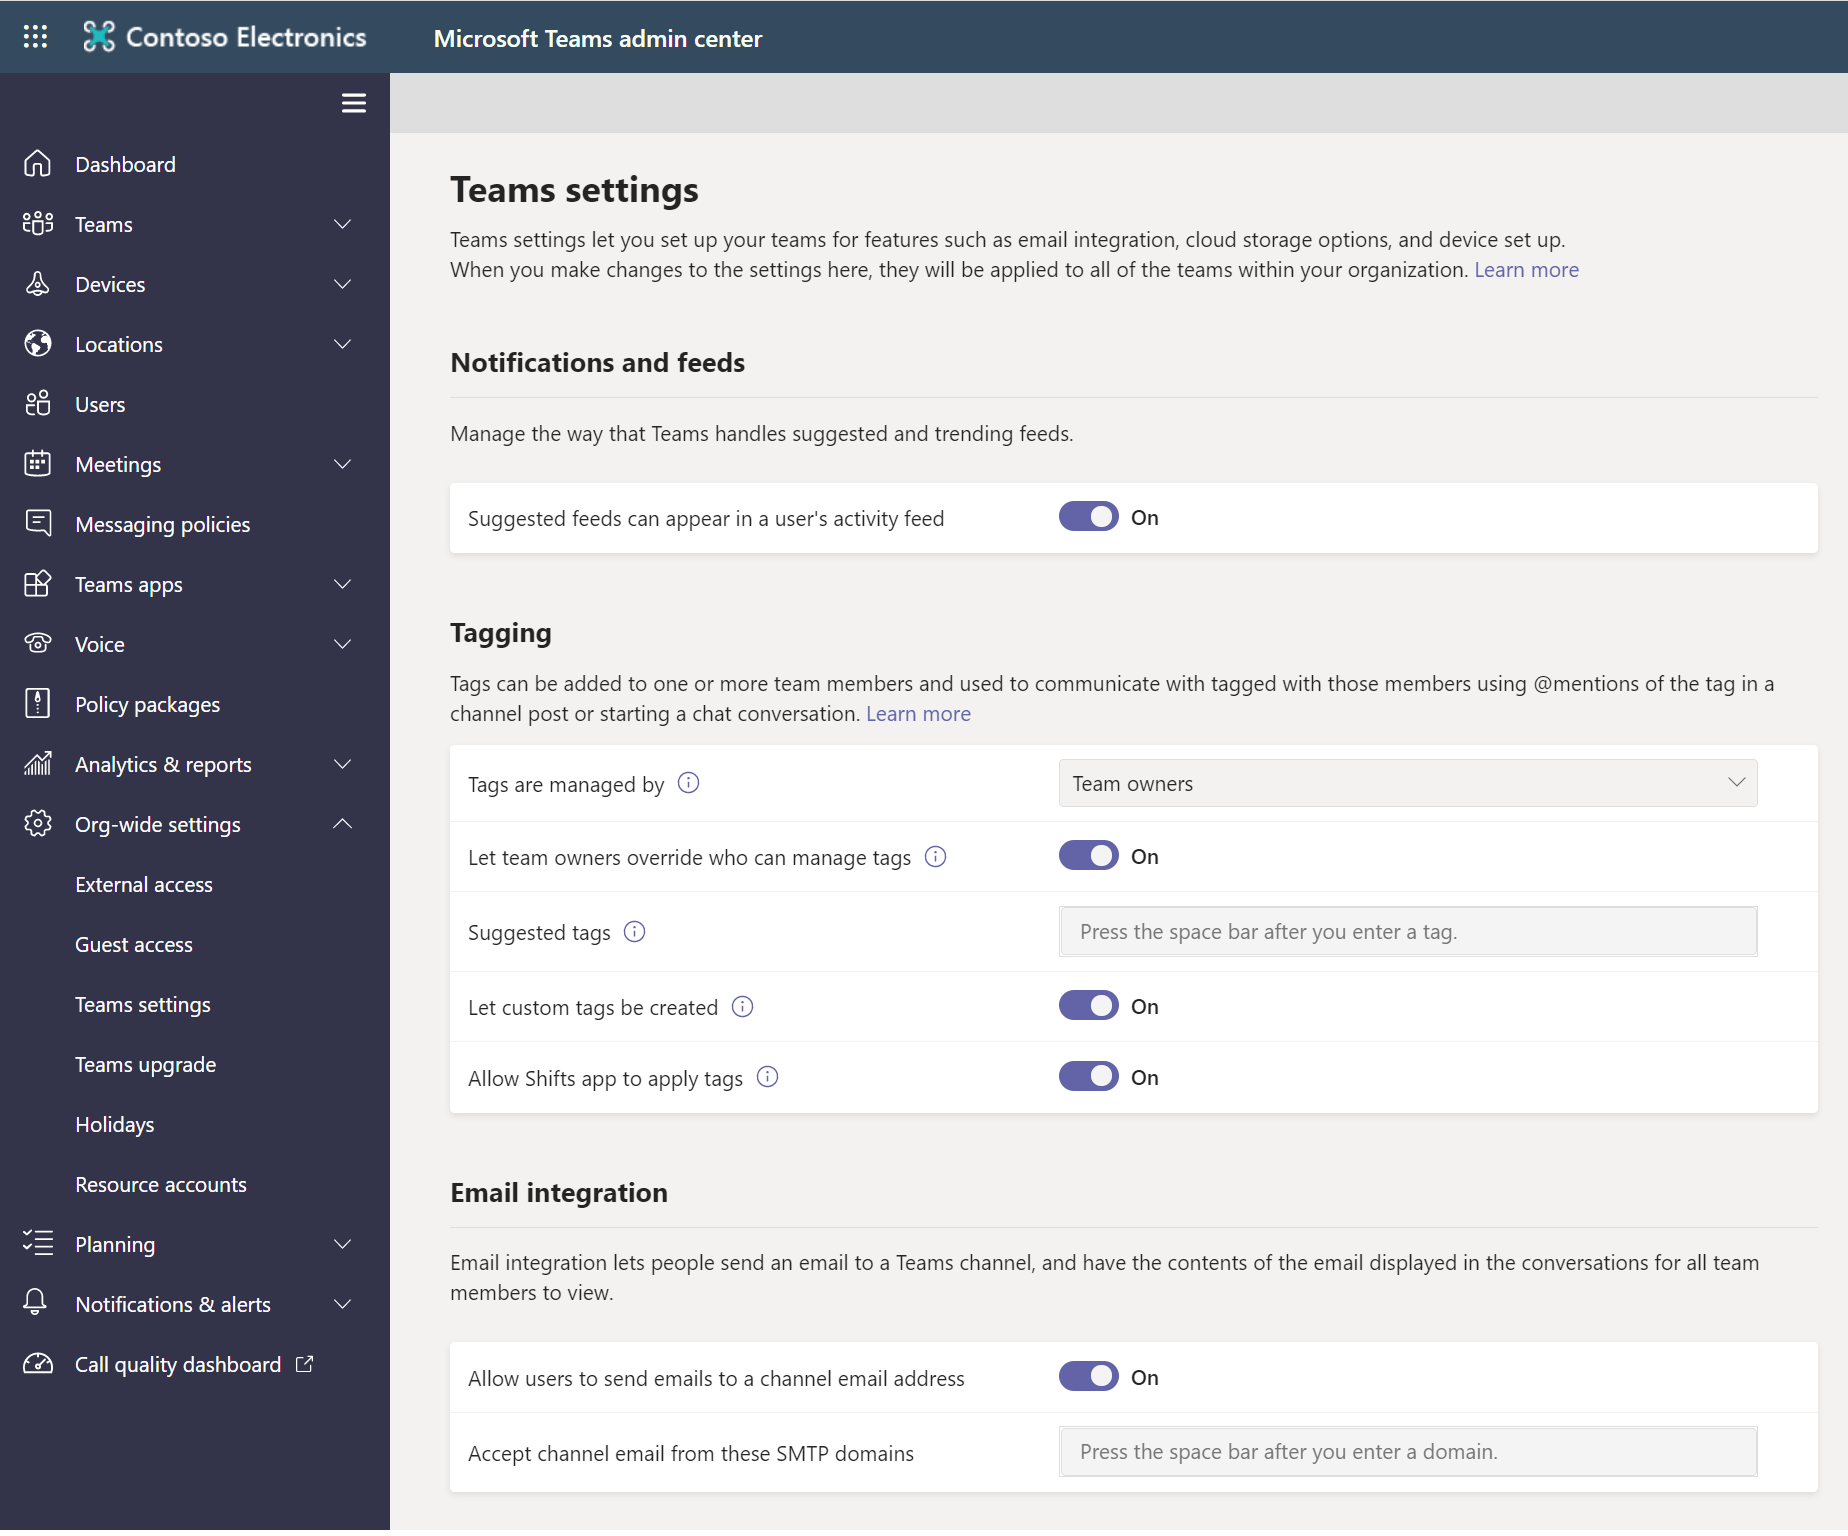
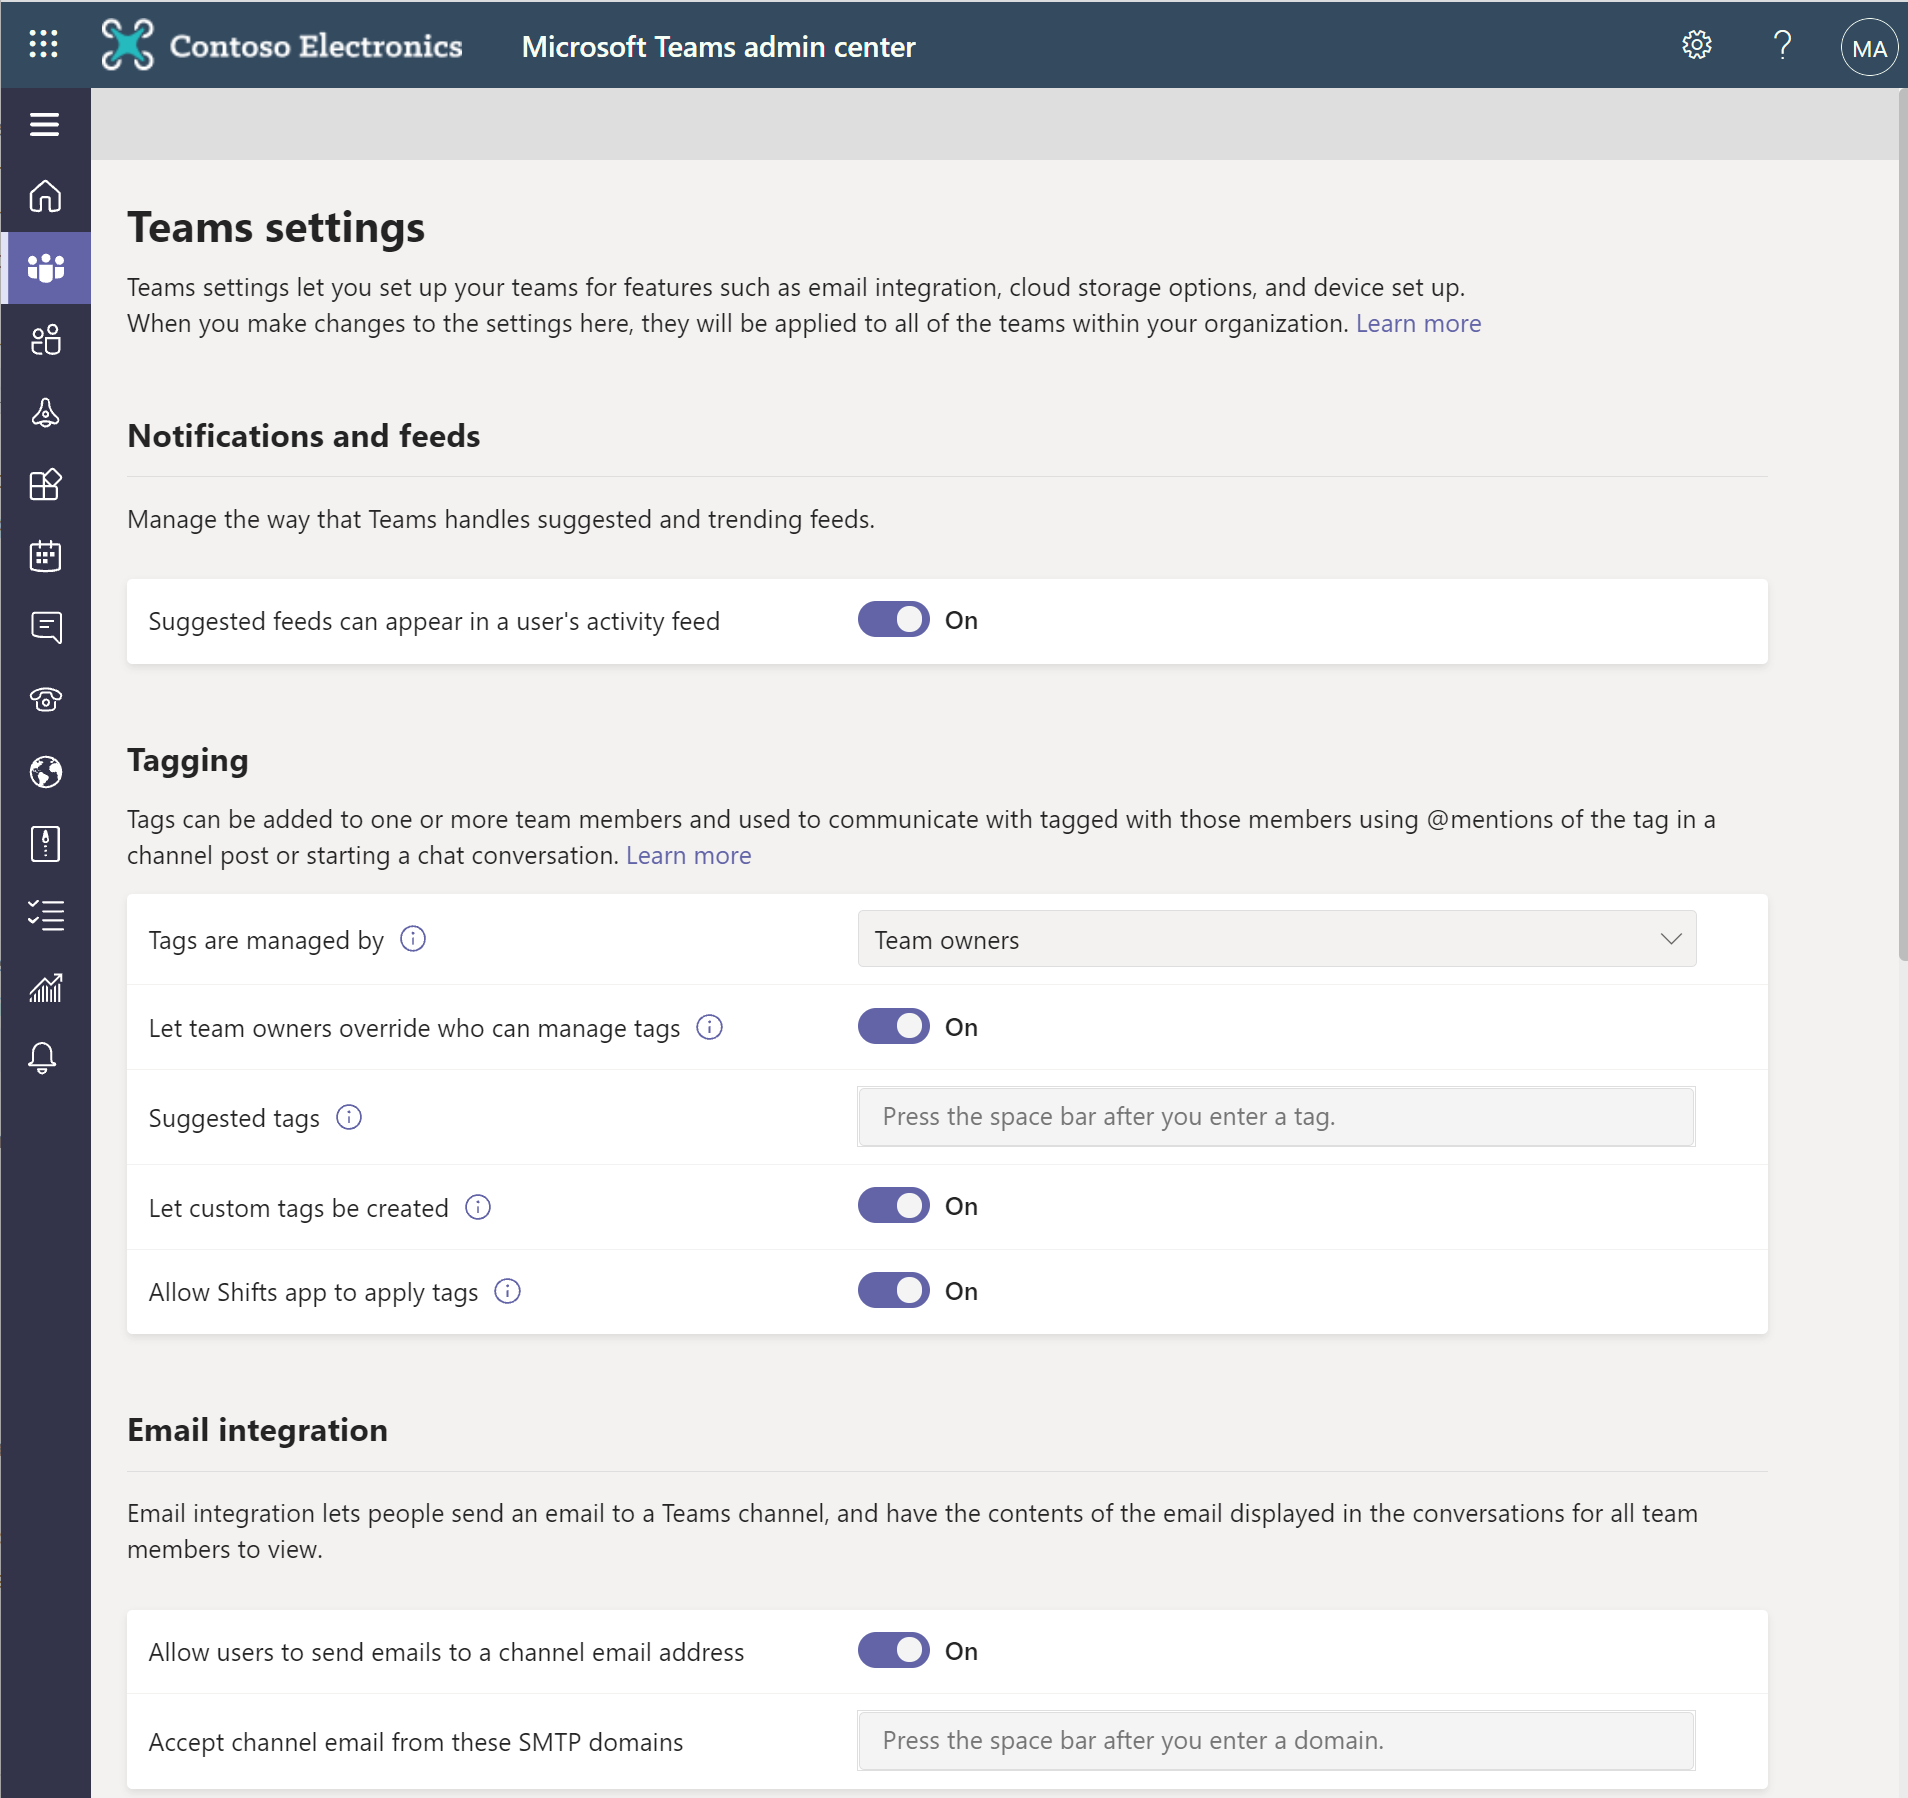
changed files by pdets auto publish service, publishid[fe5abac6-fd86-4548-a238-d76168daabba] and do [publish].

diff --git a/learn-m365-pr/wwl/manage-collaboration-experiences-for-chat-channels/includes/04-configure-teams-settings.md b/learn-m365-pr/wwl/manage-collaboration-experiences-for-chat-channels/includes/04-configure-teams-settings.md
@@ -1,6 +1,6 @@
 
 
-Managing Teams settings includes several options to control basic features of Microsoft Teams, including notifications and feeds, tagging, email integration, cloud storage options, and devices. These settings are organizational-wide settings and apply to all users and teams in an organization. You can go to the Teams admin center, select **Org-wide settings** > **Teams settings** for the settings page.  
+Managing Teams settings includes several options to control basic features of Microsoft Teams, including notifications and feeds, tagging, email integration, cloud storage options, and devices. These settings are organizational-wide settings and apply to all users and teams in an organization. You can go to the Teams admin center, select **Teams** > **Teams settings** for the settings page.  
 
 :::image type="content" source="../media/teams-settings.png" alt-text="Screenshot of Microsoft Teams admin center: Teams settings"::: 
 
